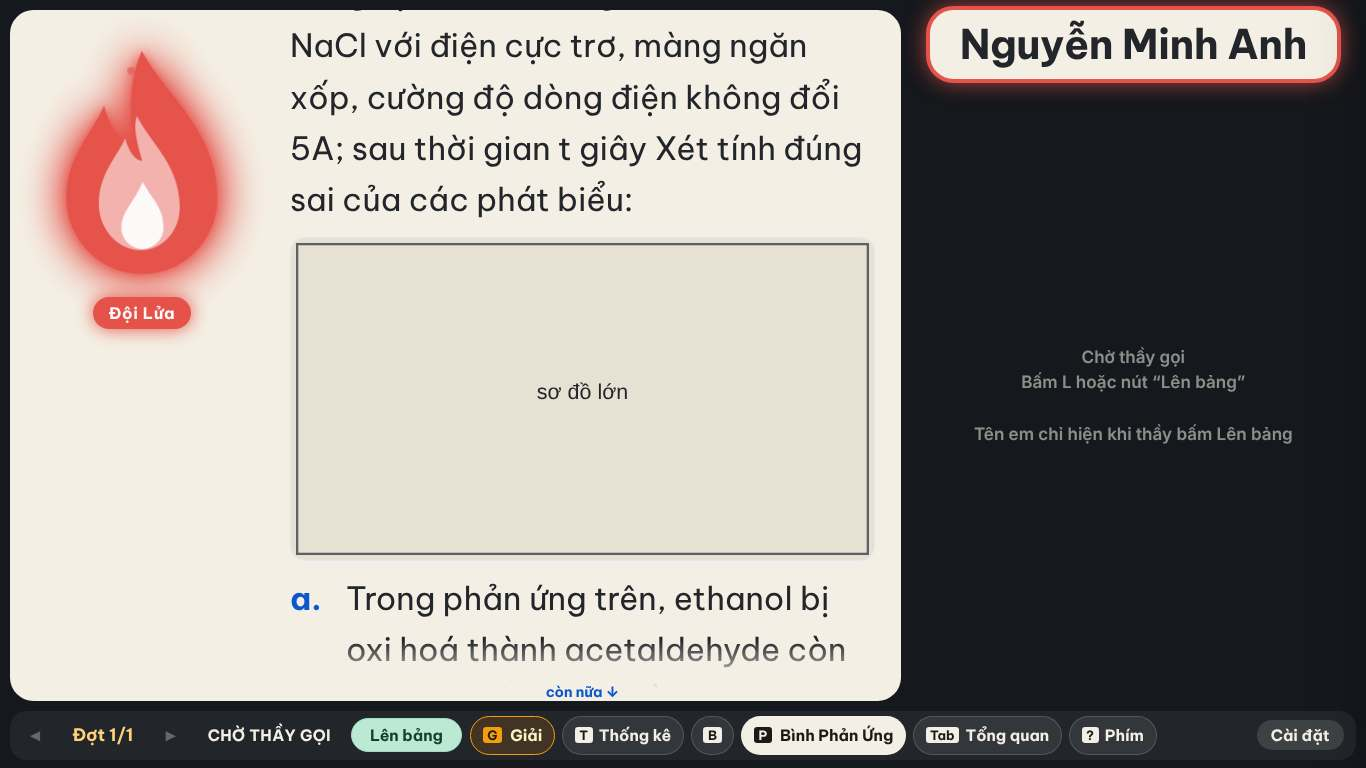
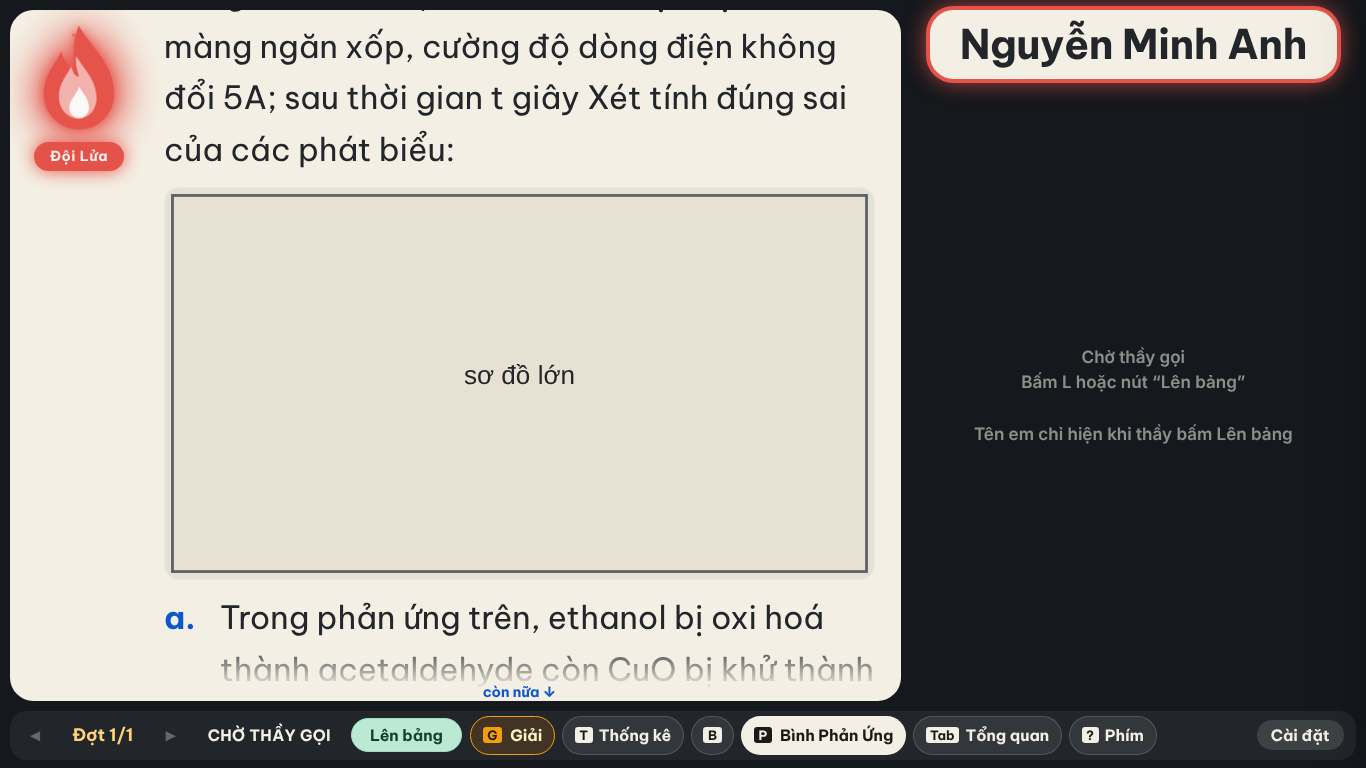
Bình Phản Ứng tờ cuộn: lửa trong lề thu nhỏ vừa chỗ để ảnh / bảng giữ cỡ cũ
- --lua = clamp(110, cột − 66 − ảnh rộng nhất, 236) px: đề chỉ chữ giữ lửa 236px; 1366 có ảnh 762px ⇒ lửa 110px, ảnh 711px (trước lề cố định 280px: 585px).
- Nhãn đội tối thiểu 14px. Ảnh 17-*.jpg chụp lại.

Claude-Session: https://claude.ai/code/session_01Ghxeuws3PppP7uS2JteAn5

diff --git a/src/lib/len-bang-bpu-to-chieu.ts b/src/lib/len-bang-bpu-to-chieu.ts
@@ -84,14 +84,20 @@ export const JS_LEN_BANG_BPU = `
     + '@keyframes bpuLuaCay{0%{transform:scale(1,1) skewX(0)}50%{transform:scale(.96,1.07) skewX(2deg)}100%{transform:scale(1.03,.95) skewX(-2deg)}}'
     + '@keyframes bpuTia{0%{opacity:0;transform:translate(0,0) scale(1)}20%{opacity:.95}100%{opacity:0;transform:translate(var(--tx,8px),-90px) scale(.3)}}'
     + '@keyframes bpuLuaVao{from{opacity:0;transform:scale(.4) translateY(30px)}to{opacity:1;transform:none}}'
-    + 'body.mc-bc .mc-vung-de.bpu-ranh-lua{padding-left:280px}.mc-vung-de.bpu-ranh-lua>.bpu-lua-doi{position:sticky;top:0;z-index:2;margin:-8px 0 0 -266px}'
+    + 'body.mc-bc .mc-vung-de.bpu-ranh-lua{padding-left:calc(var(--lua,236px) + 44px)}.mc-vung-de.bpu-ranh-lua>.bpu-lua-doi{position:sticky;top:0;z-index:2;width:var(--lua,236px);height:calc(var(--lua,236px) * 1.25);margin:-8px 0 0 calc(-30px - var(--lua,236px))}'
+    + '.mc-vung-de.bpu-ranh-lua>.bpu-lua-doi svg{width:calc(var(--lua,236px) * .89);height:calc(var(--lua,236px) * 1.07)}.mc-vung-de.bpu-ranh-lua>.bpu-lua-doi b{font-size:max(14px,calc(var(--lua,236px) * .093))}'
     + '@media (prefers-reduced-motion:reduce){.bpu-lua-doi,.bpu-lua-doi *{animation:none!important}.bpu-lua-doi .tia{display:none}}html.may-yeu .bpu-lua-doi *{animation:none!important}';
   function xoaLua() { Array.prototype.forEach.call(document.querySelectorAll('.bpu-lua-doi'), function (x) { x.remove(); }); Array.prototype.forEach.call(document.querySelectorAll('.bpu-the-ton'), function (x) { x.classList.remove('bpu-the-ton'); }); Array.prototype.forEach.call(document.querySelectorAll('.bpu-ranh-lua'), function (x) { x.classList.remove('bpu-ranh-lua'); }); }
   // 10/11 vùng đề cuộn mà có ngọn lửa đội: đề dài (tràn khung) ⇒ chừa lề trái cho lửa, lửa DÍNH ở góc trên (position sticky) — cuộn tới đâu lửa vẫn cháy,
   // chữ đề không chui dưới lửa. Đề ngắn (không tràn) ⇒ y như cũ (lửa float, chữ chảy quanh). Đo ở trạng thái KHÔNG lề để khỏi bật tắt qua lại.
+  // Ảnh / bảng giữ cỡ cũ: lửa trong lề thu nhỏ (tới 110px) cho vừa chỗ trống bên trái ảnh rộng nhất — đề chỉ có chữ thì lửa giữ cỡ to 236px.
   function ranhLua(v) {
     v.classList.remove('bpu-ranh-lua');
-    if (v.classList.contains('mc-cuon') && v.querySelector(':scope > .bpu-lua-doi') && v.scrollHeight > v.clientHeight + 2) v.classList.add('bpu-ranh-lua');
+    if (!(v.classList.contains('mc-cuon') && v.querySelector(':scope > .bpu-lua-doi') && v.scrollHeight > v.clientHeight + 2)) return;
+    var rong = 0;
+    Array.prototype.forEach.call(v.querySelectorAll('img,.q-bang'), function (x) { rong = Math.max(rong, x.getBoundingClientRect().width); });
+    v.style.setProperty('--lua', Math.round(Math.max(110, Math.min(236, v.clientWidth - 66 - rong))) + 'px');
+    v.classList.add('bpu-ranh-lua');
   }
   function cuonBpu(d) {
     if (!d || !S.bpuCuon) return;

diff --git a/tests/bpu-to-cuon-1011.test.ts b/tests/bpu-to-cuon-1011.test.ts
@@ -92,7 +92,7 @@ describe('Bình Phản Ứng bấm L ⇒ tờ cũ cuộn ngay, không lật tran
   })
 
   it('đề dài có lửa: chừa lề trái, lửa dính góc trên khi cuộn; chấm xong bỏ lề', () => {
-    expect(JS_LEN_BANG_BPU).toContain("body.mc-bc .mc-vung-de.bpu-ranh-lua{padding-left:280px}.mc-vung-de.bpu-ranh-lua>.bpu-lua-doi{position:sticky;top:0")
+    expect(JS_LEN_BANG_BPU).toContain("body.mc-bc .mc-vung-de.bpu-ranh-lua{padding-left:calc(var(--lua,236px) + 44px)}.mc-vung-de.bpu-ranh-lua>.bpu-lua-doi{position:sticky;top:0")
     expect(JS_LEN_BANG_BPU).toMatch(/function xoaLua\(\)[^\n]*bpu-ranh-lua/)
     expect(JS_LEN_BANG_BPU).toContain('S.bpuCuon = true;')
   })
